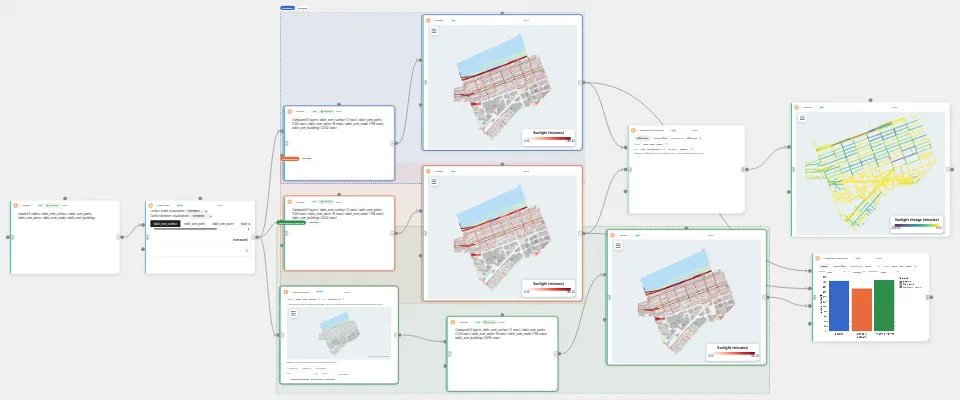
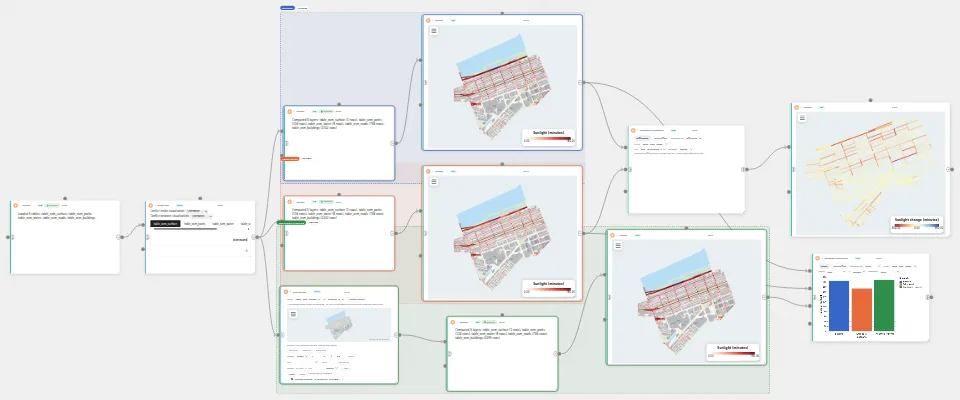
New example names, shared color ranges, no node Comments, park shade, flood vulnerability and nine scenario charts

Changed region(s): [[0.8438, 0.3, 0.9688, 0.57], [0.3125, 0.78, 0.375, 0.93], [0.9375, 0.54, 1.0, 0.57]]

diff --git a/site/scout.md b/site/scout.md
@@ -1,15 +1,16 @@
 ---
 title: "SCOUT examples"
-description: "Building shadows, flooding with nature-based solutions and weather-aware routing from SCOUT, as Curio packages, models and dataflows that compare scenarios."
+description: "Building shadows, park shade, flooding with nature-based solutions and weather-aware routing from SCOUT, as Curio packages, models and dataflows that compare scenarios."
 group: using
 order: 47
 card: { poster: /media/scout/flood-change.webp, alt: "A map of the change in flood depth between two scenarios" }
 deeper:
-  - { doc: docs/examples/24-scout-building-rasters.md, label: "Example 24: SCOUT building rasters" }
+  - { doc: docs/examples/24-scout-shadow-model-chicago-loop.md, label: "Example 24: SCOUT shadow model on Chicago Loop buildings" }
+  - { doc: docs/README.md, anchor: scout-scenario-studies, label: "The SCOUT scenario studies" }
   - { doc: packages/scout.raster-conversion@1/README.md, label: "The SCOUT Raster Conversion package" }
   - { doc: packages/model.scout.deep-umbra@1/README.md, label: "The Deep Umbra model package" }
   - { doc: packages/model.scout.weather-gnn@1/README.md, label: "The SCOUT weather GNN model package" }
-  - { doc: docs/USAGE.md, anchor: rasters, label: "Raster Calculator and Raster Statistics" }
+  - { doc: docs/USAGE.md, anchor: rasters, label: "Rasters: the Raster Calculator" }
   - { doc: docs/README.md, anchor: examples, label: "Example gallery" }
 ---
 
@@ -19,15 +20,15 @@ deeper:
 
 ## Find them
 
-The four dataflows are in the examples every account starts with, under **By source** on the projects page: "SCOUT building rasters" (example 24) under **Examples**, and FloodScenarios, ScoutShadows and WeatherRouting under **Tests**. On your own computer they come with `--with-examples`, which also installs the SCOUT packages.
+The five dataflows are in the examples every account starts with, under **By source** on the projects page: "SCOUT shadow model on Chicago Loop buildings" (example 24) under **Examples**, and four under **Tests**: "Chicago Loop shadow with towers removed or edited", "Lower Manhattan park shade with towers removed or capped", "Quad Cities flood depth, nature-based solutions and vulnerability" and "Routing around rain and wind in downtown Chicago". The **SCOUT** tag in the [rail](/projects-and-files/#the-projects-page) lists every dataflow that uses a SCOUT node, model or dataset. On your own computer they come with `--with-examples`, which also installs the SCOUT packages.
 
 ## Building rasters and shadows
 
 - **Rasterize Buildings**, from the SCOUT Raster Conversion package, turns a buildings layer with heights in metres into SCOUT's zoom-16 height tiles, side by side in one raster: a mosaic an Autark map draws.
 - **Accumulated Shadow**, the node of the Deep Umbra model package in the [Model Catalog](/model-catalog/), runs Deep Umbra, SCOUT's shadow model, on that mosaic. It gives the minutes of a day the ground spends in shadow, as a raster on the same grid; its **Season** widget picks spring, summer or winter.
-- **Raster Statistics** then gives the mean and median shadow over the ground.
+- A **Raster Calculator** then takes the shadow's statistics: its mean and median over the ground.
 
-Example 24, "SCOUT building rasters", runs them on the buildings of SCOUT's Chicago Loop example: the buildings in 3D, the height mosaic and the summer shadow on Autark maps, and the mean and median shadow.
+Example 24, "SCOUT shadow model on Chicago Loop buildings", runs them on the buildings of SCOUT's Chicago Loop example: the buildings in 3D, the height mosaic and the summer shadow on Autark maps, and the mean and median shadow.
 
 <GuideFigure src="/media/scout/buildings-3d.webp" alt="An Autark map of the Chicago Loop's buildings in 3D" caption="Example 24: the Loop&#x27;s buildings in 3D, colored by their height in metres." :w="532" :h="356" />
 
@@ -35,31 +36,55 @@ Example 24, "SCOUT building rasters", runs them on the buildings of SCOUT's Chic
 
 <GuideFigure src="/media/scout/summer-shadow.webp" alt="An Autark map of the summer shadow" caption="Deep Umbra&#x27;s summer shadow on the same grid: the minutes of the day each cell spends in shadow, darker where it is longer." :w="532" :h="356" />
 
-ScoutShadows compares two scenarios of the same buildings over a shared season, Existing and Towers removed (15 buildings taken out), each with an Autark map of its shadow: one Compare Scenarios node charts the mean shadow, and another maps its change.
+"Chicago Loop shadow with towers removed or edited" compares two scenarios of the same buildings over a shared season, Existing and Towers removed, each with an Autark map of its shadow. Both maps set the same `colorMapRange`, 0 to 720 minutes, so a minute of shadow has one color on both. In Towers removed, an [Interaction node](/scenarios/#remove-or-change-features) takes SCOUT's 15 buildings out by their `building_id`. Add edits to its log to remove, raise or lower more, and **Update results** runs the shadow again. One Compare Scenarios node charts the mean shadow, and another takes its change, which an Autark map draws.
+
+<GuideFigure src="/media/scout/shadow-existing.webp" alt="An Autark map of the Loop's accumulated shadow, Existing" caption="Existing: the accumulated shadow of the Loop&#x27;s buildings, colored from 0 to 720 minutes." :w="526" :h="350" />
+
+<GuideFigure src="/media/scout/shadow-towers.webp" alt="An Autark map of the Loop's accumulated shadow, Towers removed" caption="Towers removed, on the same range: the shadow without SCOUT&#x27;s 15 buildings." :w="526" :h="350" />
+
+<GuideFigure src="/media/scout/towers-lever.webp" alt="The Towers removed scenario's Interaction node with a log of two edits" caption="The Interaction node of Towers removed: SCOUT&#x27;s 15 buildings removed by building_id, and an edit added after them, Remove where height &gt; 200, for 20 removed in all." :w="560" :h="460" />
 
 Deep Umbra ships with Curio's repository and its Docker image; a pip install downloads its weights from GitHub the first time Accumulated Shadow runs.
 
+## Shade in Lower Manhattan's parks
+
+"Lower Manhattan park shade with towers removed or capped" measures the shade in the parks of the Financial District and City Hall with the towers around them removed or capped:
+
+- an Autark node loads Lower Manhattan's parks, and the buildings of a box about 300 m larger, from an OpenStreetMap extract;
+- Python nodes give every building part a height, keep the open-air parks, and mark the parts at least the **Tall building height** tall within the **Distance from a park** of any park, two [Parameter nodes](/widgets/#share-a-value-with-a-parameter-node) set to 60 m and 75 m;
+- in three scenarios, Existing, Towers removed and Height cap, Interaction nodes remove the marked parts or cut them to the Tall building height. Rasterize Buildings and Accumulated Shadow give the shadow over the season a third Parameter node sets, a Python node measures it in each park, and Autark maps draw the buildings in 3D and the shadow.
+
+One Compare Scenarios node charts each park's mean minutes of shadow, and four take each what-if's change in shadow, cell by cell and per park, which Autark maps draw.
+
+<GuideFigure src="/media/scout/park-change.webp" alt="An Autark map of the change in each park's mean shadow with the towers removed" caption="Towers removed: the change in each park&#x27;s mean shadow, in red, yellow and blue from -720 to 720 minutes." :w="526" :h="350" />
+
 ## Flooding and nature-based solutions
 
-FloodScenarios is SCOUT's flood study of the Quad Cities, built from Curio's own nodes:
+"Quad Cities flood depth, nature-based solutions and vulnerability" is SCOUT's flood study of the Quad Cities, built from Curio's own nodes:
 
 - three [Parameter nodes](/widgets/#share-a-value-with-a-parameter-node) set the period (2020 to 2040, 2050 to 2080 or 2080 to 2100) and the region's two corners, which start at the region of SCOUT's flood example;
 - Data Loading nodes read only that region's window of SCOUT's whole flood depth rasters, with and without nature-based solutions (NbS), and of its raster of where each solution would go;
-- in each of two scenarios, No NbS and NbS, a **Raster Calculator** takes the depth with NbS where the class is one of the solutions its widget checks, and the depth without NbS elsewhere, a **Raster Statistics** node gives the median and mean depth, and an Autark map draws the depth.
+- in each of two scenarios, No NbS and NbS, a **Raster Calculator** takes the depth with NbS where the class is one of the solutions its widget checks, and the depth without NbS elsewhere, a second takes the depth's median and mean, and an Autark map draws the depth. Both depth maps set the same `colorMapRange`, 0 to 11 m.
 
-Two Compare Scenarios nodes then map the size of the change in depth between No NbS and NbS, and chart each scenario's median depth. A pip install downloads the flood rasters from GitHub the first time a node reads them.
+Two Compare Scenarios nodes then take the size of the change in depth between No NbS and NbS, which an Autark map draws, and chart each scenario's median depth.
 
-<GuideFigure src="/media/scout/flood-change.webp" alt="A Compare Scenarios node mapping the size of the change in flood depth" caption="Depth change: the size of the change in flood depth between No NbS and NbS, cell by cell, over the region the Parameter nodes set." :w="560" :h="420" />
+<GuideFigure src="/media/scout/flood-change.webp" alt="An Autark map of the size of the change in flood depth" caption="Depth change: the size of the change in flood depth between No NbS and NbS, cell by cell, over the region the Parameter nodes set." :w="526" :h="350" />
 
 <GuideFigure src="/media/scout/flood-median.webp" alt="A Compare Scenarios node charting the median flood depth of two scenarios" caption="Median flood depth: the median depth of No NbS and NbS, as bars." :w="560" :h="420" />
 
-The **Raster Calculator** and **Raster Statistics** nodes work on any rasters on one grid, from a Python node or the Data Catalog. A Data Loading node reads only part of a large GeoTIFF when its `curio_load_data` call is given `bounds`.
+The dataflow also weighs the flood against social vulnerability. Two more Data Loading nodes read CDC/ATSDR's Social Vulnerability Index (SVI) for the census tracts and USGS's rivers, lakes and reservoirs from the Data Catalog, and a Data Transformation node keeps the tracts the rivers touch, which an Autark map draws by their SVI percentile. In each scenario, two Data Transformation nodes average the depth over each tract's land, the water left out, and over the riverside land in each period. Compare Scenarios then takes the size of the change in each tract's mean depth, which an Autark map draws, and charts vulnerability against depth and the mean depth by period.
+
+<GuideFigure src="/media/scout/flood-vulnerability.webp" alt="An Autark map of the riverside tracts by their SVI percentile" caption="The tracts the rivers touch, by their SVI percentile: darker where social vulnerability is higher." :w="526" :h="350" />
+
+<GuideFigure src="/media/scout/flood-period.webp" alt="A Compare Scenarios node charting the mean flood depth by period as grouped bars" caption="Depth by period: the riverside tracts&#x27; mean flood depth in each period, No NbS beside NbS." :w="560" :h="420" />
+
+A pip install downloads the flood rasters from GitHub the first time a node reads them. The **Raster Calculator** works on any rasters on one grid, from a Python node or the Data Catalog, cell by cell or as statistics. A Data Loading node reads only part of a large GeoTIFF when its `curio_load_data` call is given `bounds`.
 
 ## Weather-aware routing
 
 **Weather Routing**, the node of the SCOUT weather GNN model package in the [Model Catalog](/model-catalog/), finds routes between two points over a roads layer. It weighs each road by the weather that SCOUT's weather graph network predicts on it from SCOUT's WRF forecast in the Data Catalog. Its widgets set the origin and destination, the start time, the mode, the number of routes per factor, and the rain and wind weights; the forecast runs from 5 July 2025, 19:00, to 7 July, 19:00, Chicago time. It outputs the routes, which an Autark map draws, and a table of each route's duration, distance and rain, heat, wind and humidity exposure, which Compare Scenarios charts.
 
-WeatherRouting is SCOUT's weather routing example. An Autark node loads the roads of SCOUT's box in downtown Chicago, and one Weather Routing node finds SCOUT's two routes over them: the fastest, and the one its weather weights favor. Two scenarios, Fastest route and Weather-aware route, each keep one of them. An Autark map draws both routes over the roads in their scenarios' colors, and four Compare Scenarios nodes chart their duration, distance and rain and wind exposure.
+"Routing around rain and wind in downtown Chicago" is SCOUT's weather routing example. An Autark node loads the roads of SCOUT's box in downtown Chicago, and one Weather Routing node finds SCOUT's two routes over them: the fastest, and the one its weather weights favor. Two scenarios, Fastest route and Weather-aware route, each keep one of them. An Autark map draws both routes over the roads in their scenarios' colors, and four Compare Scenarios nodes chart their duration, distance and rain and wind exposure.
 
 <GuideFigure src="/media/scout/routes-map.webp" alt="An Autark map of two routes over the roads of SCOUT's box in downtown Chicago" caption="The Fastest route and the Weather-aware route over the roads of SCOUT's box, each in its scenario's color." :w="526" :h="350" />
 

diff --git a/site/scenarios.md b/site/scenarios.md
@@ -8,7 +8,8 @@ deeper:
   - { doc: docs/USAGE.md, anchor: scenarios, label: "Scenarios in the usage guide" }
   - { doc: docs/USAGE.md, anchor: the-interaction-node, label: "The Interaction node" }
   - { doc: docs/USAGE.md, anchor: comparing-scenarios, label: "Comparing scenarios" }
-  - { doc: docs/examples/06-autark-what-if-shadow-study.md, label: "Example 06: a what-if shadow study in three scenarios" }
+  - { doc: docs/examples/06-back-bay-road-sunlight.md, label: "Example 06: Back Bay road sunlight when buildings change" }
+  - { doc: docs/README.md, anchor: charts-that-compare-scenarios, label: "Nine ways to chart scenario comparisons" }
 ---
 
 # Scenarios
@@ -78,7 +79,7 @@ The **Compare Scenarios** node compares scenarios' outcomes on the canvas.
 
 It works in one of two ways, which **Compare as** switches:
 
-- **Chart** stacks its inputs into one table, with each scenario's name on its rows, and draws it in the scenarios' colors as bars, grouped bars, lines, points, a pie, lollipops or a table. Pick the **X** and **Y** columns, and how the values of a group are combined in **Combine**: mean, sum, median, minimum, maximum or a count.
+- **Chart** stacks its inputs into one table, with each scenario's name on its rows, and draws it in the scenarios' colors as bars, grouped bars, lines, points, a pie, lollipops or a table. Pick the **X** and **Y** columns, and how the values of a group are combined in **Combine**: mean, sum, median, minimum, maximum, a count, or none, which plots each row's value as it is. A table writes a scenario whose color is too light to read on white in a darker shade of that color.
 - **Difference** subtracts `input_0`, the reference, from `input_1`: two rasters on one grid cell by cell, each up to 4096 by 4096 cells, or two layers or tables row by row, matched on `osm_id`, `building_id` or a column you pick in **Key**. **Change** picks the signed difference or, with **Absolute**, its size. Each row of a layer's or a table's difference says in its `change` column whether it changed, stayed the same, was removed or was added. A table's difference shows as a table, each row in the color of its change.
 
 The node starts in Difference when its two inputs are rasters or layers, and in Chart otherwise. What it makes is its output: other nodes can read it, and the node can be pinned to the [dashboard](/dashboards/).
@@ -88,6 +89,8 @@ To draw a raster's or a layer's difference on a map, connect the node to an [Aut
 ```json
 { "map": { "layerRefs": [{ "dataRef": "input_0", "getFnv": "band_1", "colorMapInterpolator": "interpolateRdBu", "colorMapCenter": 0, "title": "Shadow change (minutes)" }] } }
 ```
+
+To map each scenario's outcome side by side, give their maps the same `colorMapRange`, `[low, high]`, and a value has one color on all of them.
 
 <GuideFigure src="/media/scenarios/compare-chart.webp" alt="A Compare Scenarios node in Chart, with two lollipops" caption="Compare Scenarios in Chart: the mean sunlight of Baseline and Twice as tall as lollipops. Above it, the node warns that one scenario reads fixed context the other does not." :w="560" :h="420" />
 
@@ -99,4 +102,8 @@ The **What differs** tab lists the levers that differ between the scenarios: the
 
 ## In the examples
 
-Example 06, "Autark what-if shadow study", has three scenarios over one loader: Baseline, Twice as tall (its `height_factor` widget set to 2), and Two towers removed (an Interaction node takes out two towers). Its two Compare Scenarios nodes chart their mean road sunlight and take the sunlight each road loses, which an Autark map draws. The [SCOUT examples](/scout/) compare scenarios of shadows, flooding and routes.
+Example 06, "Back Bay road sunlight when buildings change", has three scenarios over one loader: Baseline, Twice as tall (its `height_factor` widget set to 2), and Two towers removed (an Interaction node takes out two towers). Its two Compare Scenarios nodes chart their mean road sunlight and take the sunlight each road loses, which an Autark map draws in red, yellow and blue from -360 to 360 minutes. The [SCOUT examples](/scout/) compare scenarios of shadows, park shade, flooding and routes.
+
+"Nine ways to chart scenario comparisons", under **Tests** on the projects page, charts the scenarios of nine example tables from the Data Catalog, each a different way. Compare Scenarios draws two of them itself, as grouped bars and as a table. A Vega-Lite node after it draws each of the others: lines with a band, curves by state, bars with error bars, a strip of ticks per scenario, stacked bars with totals, donuts and a matrix of weights.
+
+<GuideFigure src="/media/scenarios/charts-carbon.webp" alt="Stacked bars of two building frames' carbon by life-cycle stage, with their totals" caption="From Nine ways to chart scenario comparisons: a Vega-Lite node after a Compare Scenarios node stacks the carbon of a concrete frame and a timber frame by life-cycle stage, with each total on top." :w="680" :h="440" />

diff --git a/site/dataflows.md b/site/dataflows.md
@@ -64,7 +64,7 @@ The **Run all nodes** button, at the bottom of the left column, runs the whole d
 
 A node's header shows the play button, the node's title and kind, and its run status. Its other buttons show while the pointer is over the node or the node is selected. The first of them switch its tabs: **Code**, **Widgets**, **Grammar**, **Provenance** (its [past runs](/provenance/)) and **Output**, as the node has them. Code and specs sit in a gray box, and a code node prints its output below its code. In **Widgets**, you add the node's controls, such as a slider or a date, and drag each one's tag into the code (see [Widgets and parameters](/widgets/)). The switch after the tabs saves the node's table output to your Data Catalog.
 
-Click the title to rename the node; the gear beside it opens **Node settings**, for [making a reusable node](/authoring-nodes/). After the switch come a button that explains the node, **Pin to dashboard** for the dataflow's [dashboard](/dashboards/), **Comments** for notes that others can mark as resolved, **Minimize**, which folds the node into an icon that opens again with a click, and, at the right end, **Delete node**. **View > Minimize Nodes** folds them all, and **View > Expand Nodes** opens them again. Drag a node's bottom-right corner to resize it, and double-click a node where you would drag it, such as its header, to zoom the view onto it. For viewers of a shared dataflow, nodes keep their size and have no **Delete node**.
+Click the title to rename the node; the gear beside it opens **Node settings**, for [making a reusable node](/authoring-nodes/). After the switch come a button that explains the node, **Pin to dashboard** for the dataflow's [dashboard](/dashboards/), **Minimize**, which folds the node into an icon that opens again with a click, and, at the right end, **Delete node**. **View > Minimize Nodes** folds them all, and **View > Expand Nodes** opens them again. Drag a node's bottom-right corner to resize it, and double-click a node where you would drag it, such as its header, to zoom the view onto it. For viewers of a shared dataflow, nodes keep their size and have no **Delete node**.
 
 ## Notes
 

diff --git a/site/visualization.md b/site/visualization.md
@@ -44,7 +44,7 @@ An **Autark** node takes one JSON specification, called an UrbanSpec: `data` loa
 
 A raster, such as a GeoTIFF from the Data Catalog or the output of a Raster Calculator, draws as a raster layer colored by one of its bands, `band_1`, `band_2` and so on: `{ "dataRef": "input_0", "getFnv": "band_1" }`.
 
-A layer's `title` names it in the legend, and `color` draws it in one color. A line layer takes a `width` in meters, a polygon layer a `stroke` color, and a raster layer `colorMapReverse` and `colorMapCenter` to reverse its color scheme or center it on a value. A layer that names a scenario of the dataflow by its id, `"scenario": "<id>"`, is drawn in that scenario's color.
+A layer's `title` names it in the legend, and `color` draws it in one color. A line layer takes a `width` in meters, a polygon layer a `stroke` color, and a raster layer `colorMapReverse` and `colorMapCenter` to reverse its color scheme or center it on a value. A layer colored by a number runs its colors from its lowest value to its highest, or over `colorMapRange`, `[low, high]`: maps that set the same range color a value alike. A layer that names a scenario of the dataflow by its id, `"scenario": "<id>"`, is drawn in that scenario's color.
 
 Maps, plots and compute need a browser with WebGPU, such as a recent Chrome or Edge. Without it, the node says **WebGPU is not available**, and its **Check again** button asks the browser again.
 

diff --git a/site/widgets.md b/site/widgets.md
@@ -45,7 +45,7 @@ A **Parameter** node holds one widget that any node of the dataflow can read, su
 
 A Parameter node has no connections. It lists the nodes whose code uses it, and changing its value marks them as needing a new run, or runs them when **Run stale nodes automatically** is on. **Edit** renames it, and their code follows the new name. Pinned to the [dashboard](/dashboards/), it shows its value.
 
-<GuideFigure src="/media/widgets/parameter.webp" alt="A location Parameter node beside a Data Loading node that reads it" caption="From the FloodScenarios dataflow: the Top-left corner Parameter node, a location, lists the three nodes whose code uses it. Beside it, a Data Loading node shows the shared tags above its code and the amber chips in it." :w="1190" :h="360" />
+<GuideFigure src="/media/widgets/parameter.webp" alt="A location Parameter node beside a Data Loading node that reads it" caption="From the Quad Cities flood dataflow: the Top-left corner Parameter node, a location, lists the three nodes whose code uses it. Beside it, a Data Loading node shows the shared tags above its code and the amber chips in it." :w="1190" :h="360" />
 
 ## Hand a node what you selected
 
